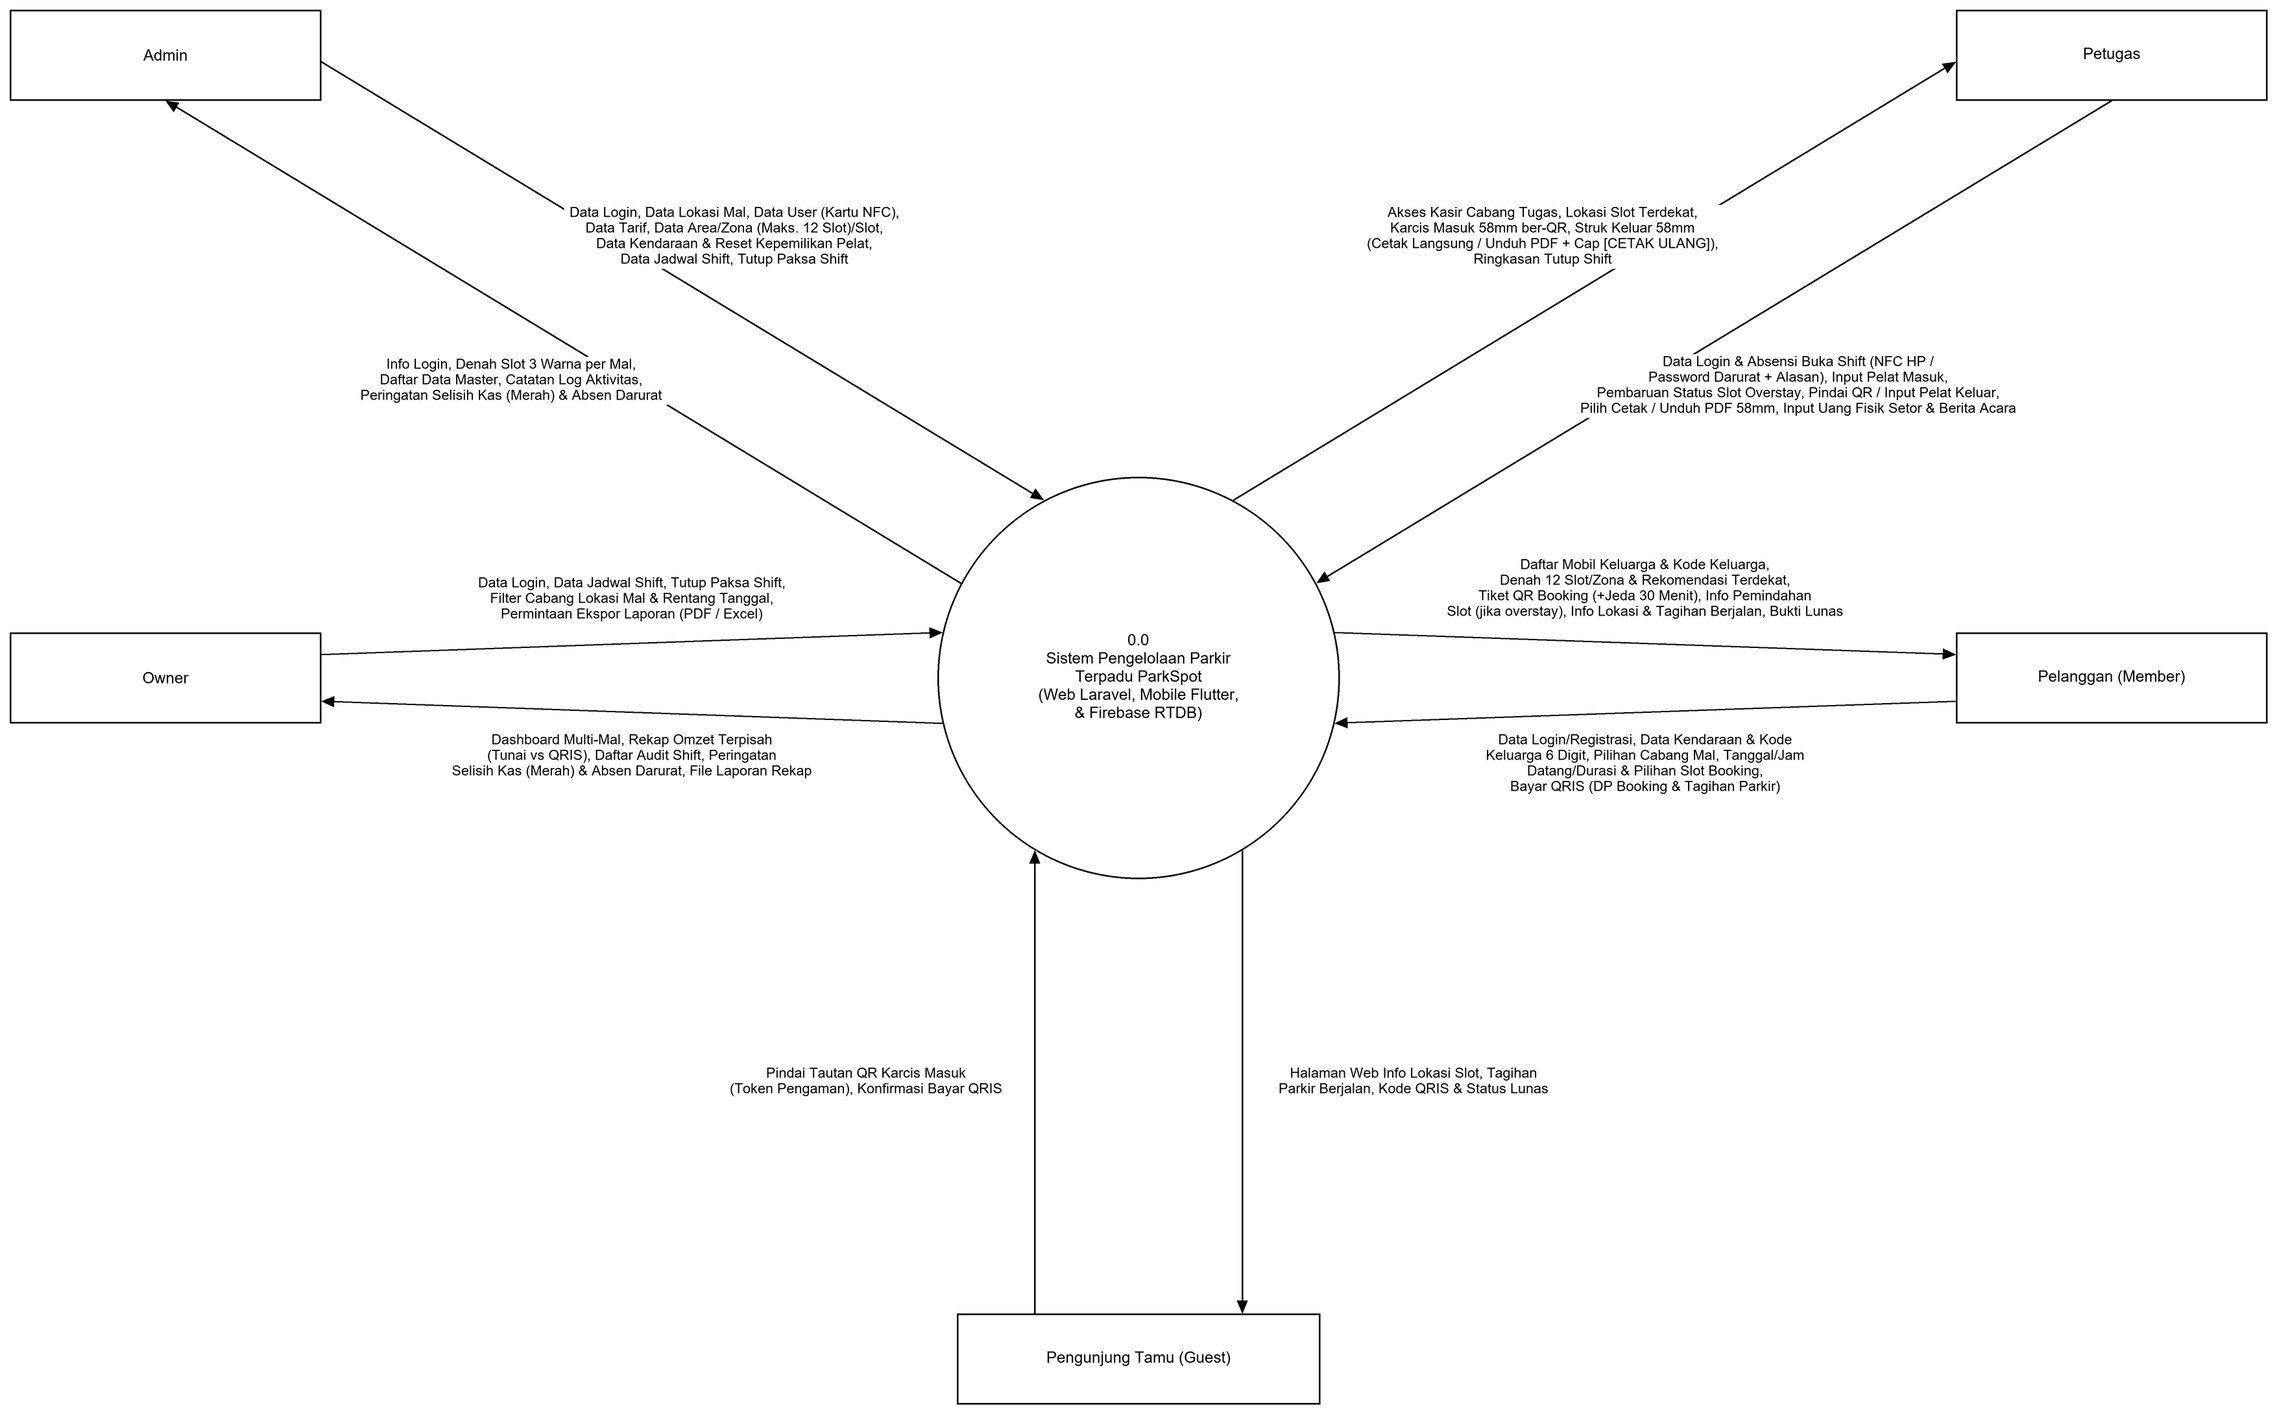
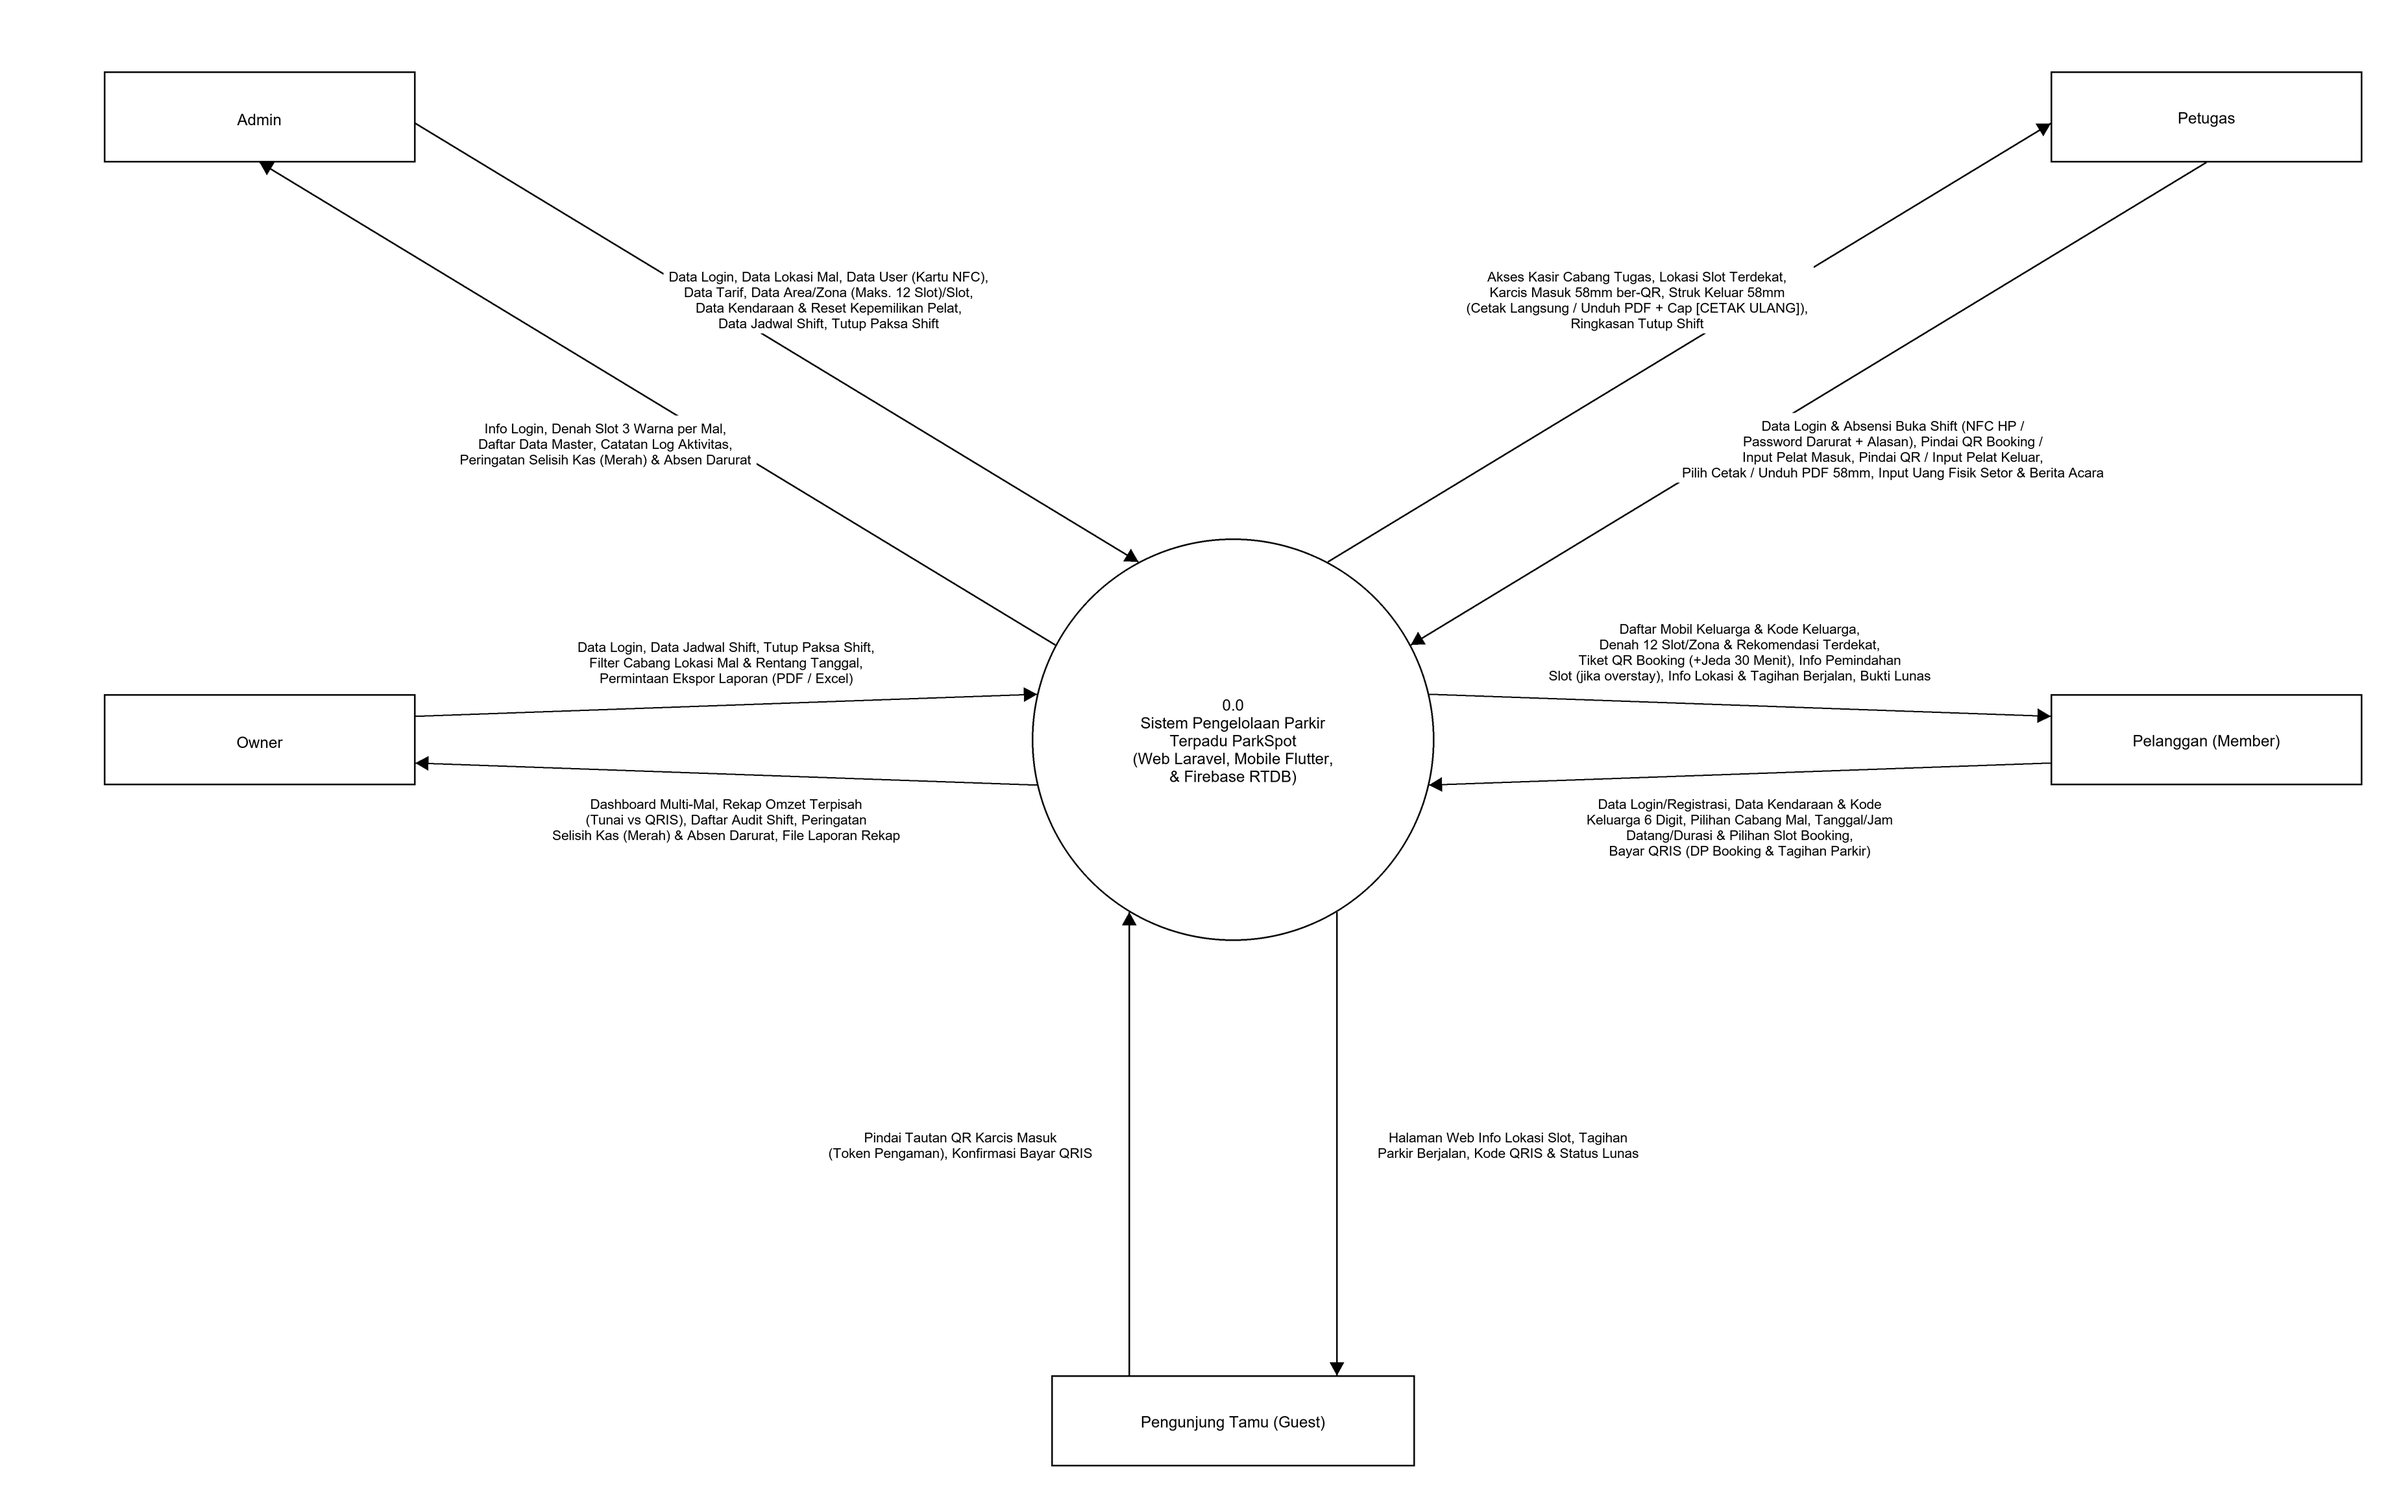
revisi teks dfd level 0 petugas jadi pindai qr booking input pelat masuk

diff --git a/docs/PROGRESS.md b/docs/PROGRESS.md
@@ -67,8 +67,8 @@ Dokumen ini memantau status pengerjaan setiap butir revisi hasil sidang Quality 
 | **11/13** | `Diagram ParkSpot UKK-Activity Pembayaran (QRIS) (Revisi)` | 🟢 Selesai | 🟢 Selesai | 🟢 PASS (Batch ACC) | 3 swimlane (Member/Guest, Sistem, Midtrans Sandbox), webhook/cek status, UJI-09 retry |
 | **12/13** | `Diagram ParkSpot UKK-Sequence Pembayaran (QRIS) (Revisi)` | 🟢 Selesai | 🟢 Selesai | 🟢 PASS (Batch ACC) | 5 lifeline (termasuk Midtrans Sandbox), 1..16 urut, rasio H/W 0.70, kembali ke aktor |
 | **13/13** | `Diagram ParkSpot UKK-Use Case (Revisi)` | 🟢 Selesai | 🟢 Selesai | 🟢 PASS (Batch ACC) | 6 aktor (termasuk Midtrans Sandbox), Opsi 1 Pindai QR Booking, fitur shift lengkap |
-| **Bonus 1** | `Diagram ParkSpot UKK-DFD LEVEL 0 (Revisi)` *(Update teks Petugas)* | 🟡 Sedang Dikerjakan | 🟡 Sedang Dikerjakan | 🔴 Antre | Ganti "Pembaruan Status Slot Overstay" $\rightarrow$ "Pindai QR Booking / Input Pelat Masuk" |
-| **Bonus 2** | `Diagram ParkSpot UKK-Activity Keluar Gerbang & Print Struk (Revisi)` | 🔴 Belum | 🔴 Belum | 🔴 Antre | Tambah keputusan "Waktu keluar melewati jam yang sudah dibayar?" (tagih selisih tunai/QRIS) |
+| **Bonus 1** | `Diagram ParkSpot UKK-DFD LEVEL 0 (Revisi)` *(Update teks Petugas)* | 🟢 Selesai | 🟢 Selesai | 🟢 PASS (Batch ACC) | Ganti "Pembaruan Status Slot Overstay" $\rightarrow$ "Pindai QR Booking / Input Pelat Masuk" |
+| **Bonus 2** | `Diagram ParkSpot UKK-Activity Keluar Gerbang & Print Struk (Revisi)` | 🟡 Sedang Dikerjakan | 🟡 Sedang Dikerjakan | 🔴 Antre | Tambah keputusan "Waktu keluar melewati jam yang sudah dibayar?" (tagih selisih tunai/QRIS) |
 | **Bonus 3** | `Diagram ParkSpot UKK-Sequence Keluar Gerbang & Cetak Struk (Revisi)` | 🔴 Belum | 🔴 Belum | 🔴 Antre | Tambah alt "Waktu keluar melewati jam yang sudah dibayar?" (sinkron Activity) |
 
 ---
